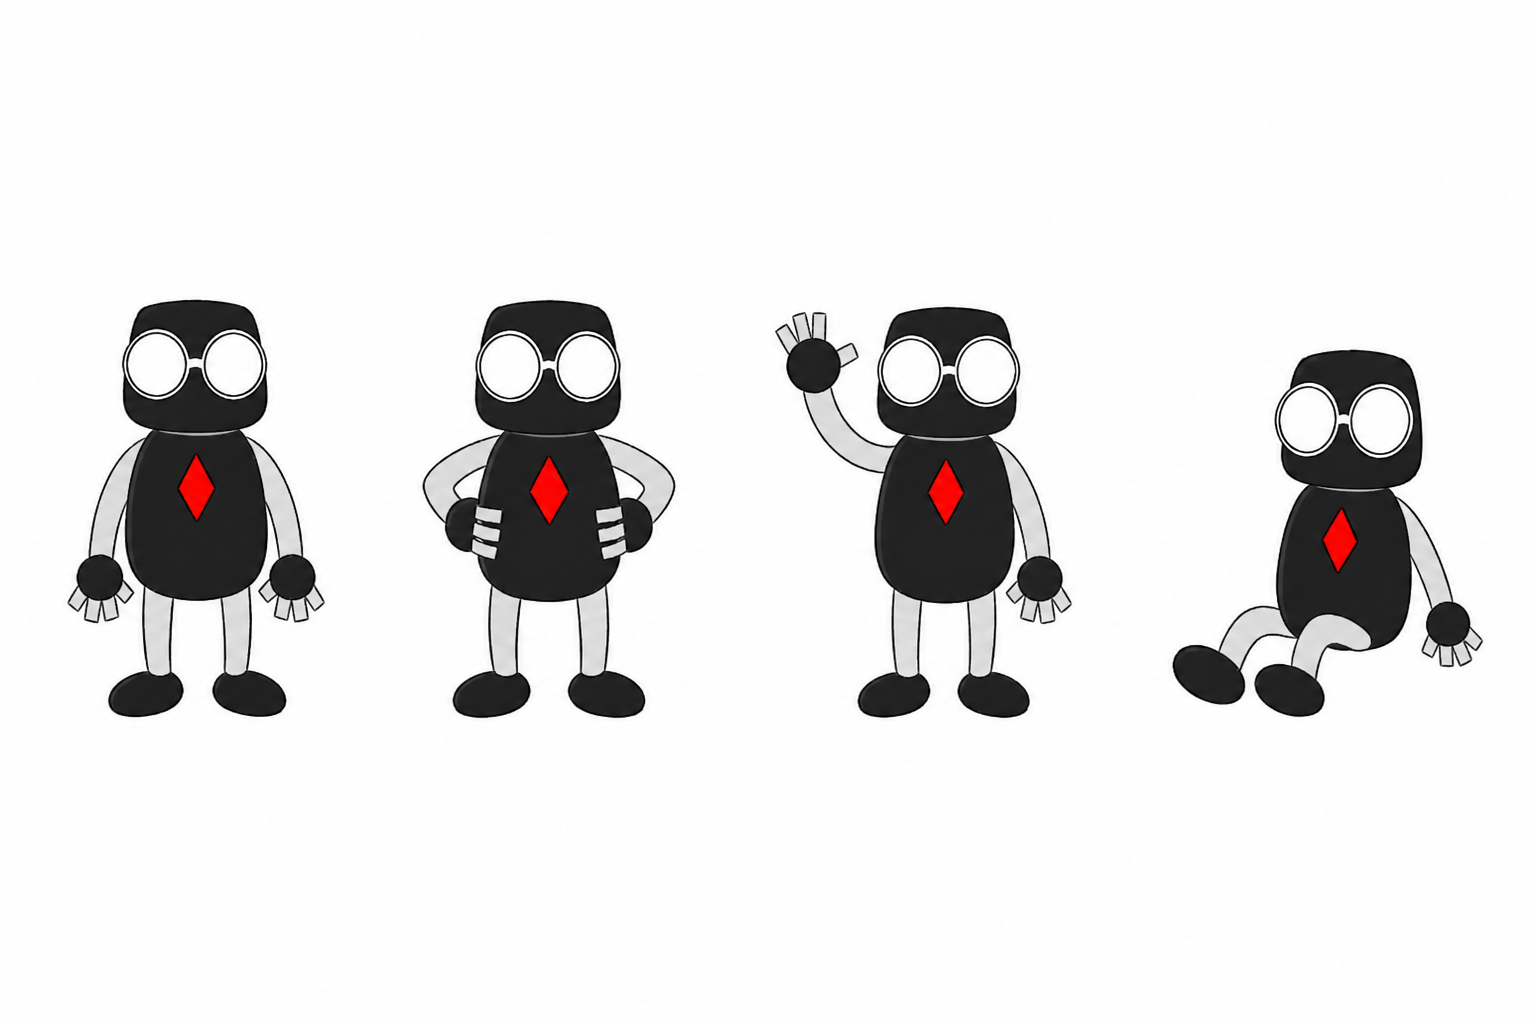
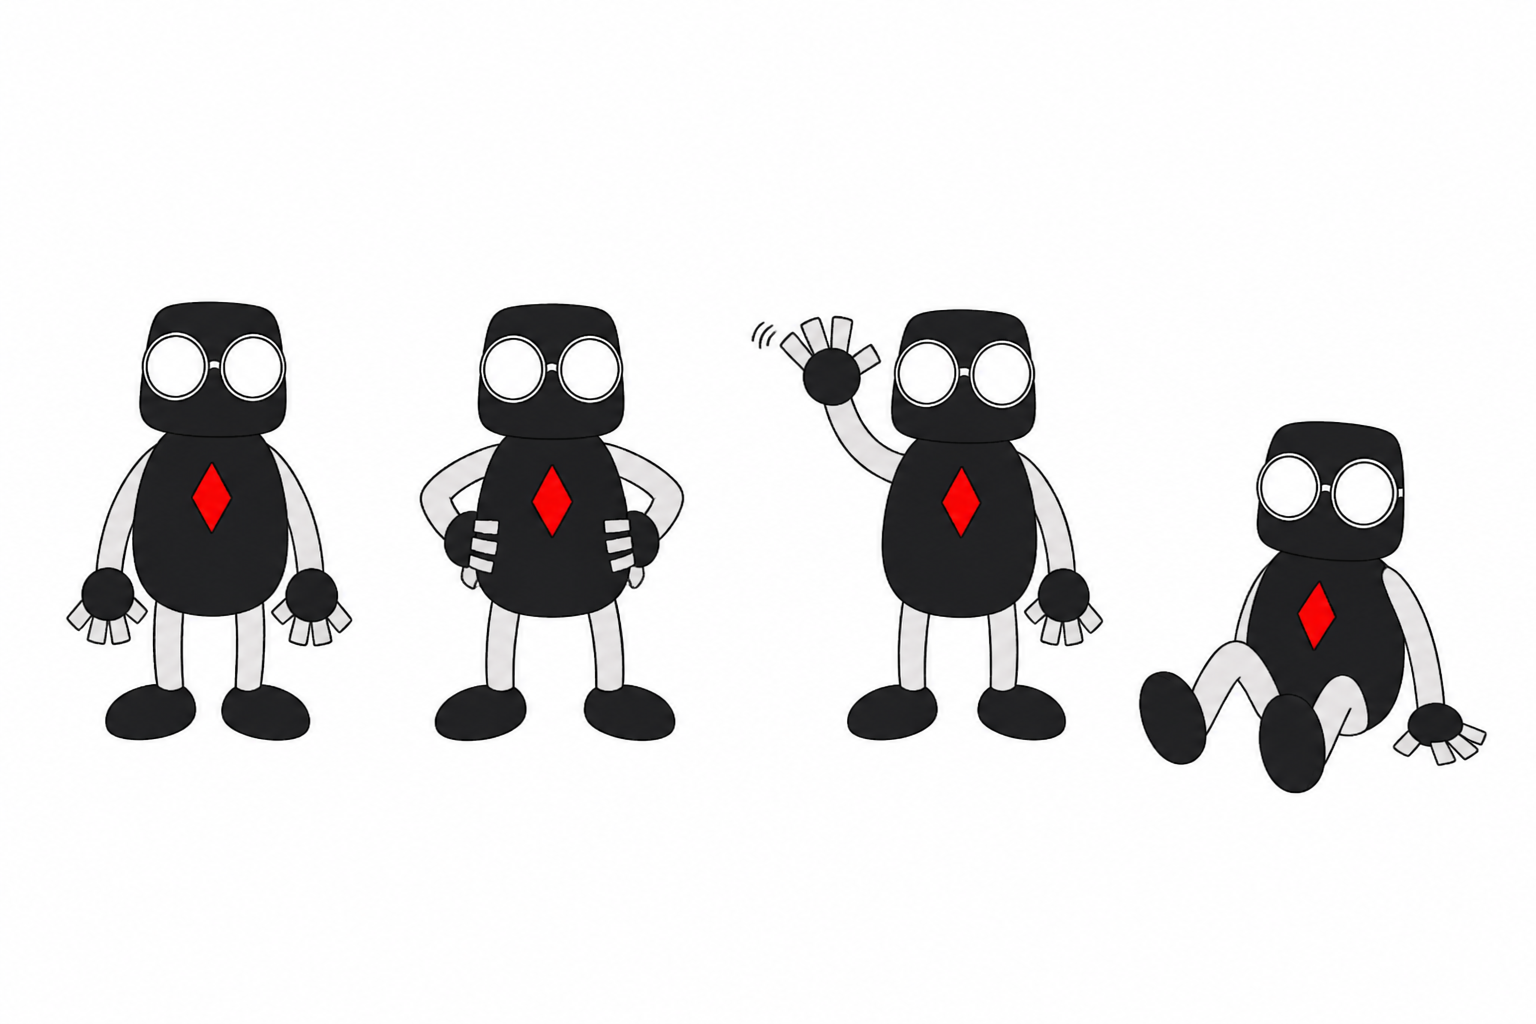
fix: lock T Krobot hand construction in illustrations
Hands were the remaining miss — gloves, five digits, sausages, black
fists. Stop relaxing finger count, attach dedicated hand lock sheets
on every generation, and reject anything that is not a black palm blob
with three grey rectangular tabs plus a thumb.

Changed region(s): [[0.4688, 0.2812, 0.9688, 0.7812], [0.0312, 0.2812, 0.25, 0.75], [0.25, 0.2812, 0.4688, 0.75]]

diff --git a/docs/skills/tkrobot-illustrations/references/tkrobot-sketch-mode.md b/docs/skills/tkrobot-illustrations/references/tkrobot-sketch-mode.md
@@ -11,16 +11,19 @@ with round white eyes — reject that on sight.
 
 ## Always attach these
 
-On every `image_gen` call, pass both lock sheets as reference images, in this
+On every `image_gen` call, pass these lock sheets as reference images, in this
 order:
 
 1. `assets/character-lock-canonical.png` — anatomy and colours from the sticker
    masters (wave, hands-on-hips, OK, face).
-2. `assets/character-lock-sketch.png` — the same character in thin-line sketch
-   form.
+2. `assets/character-lock-sketch.png` — the same character in thin-line form.
+3. `assets/hand-lock-canonical.png` — locked v1 hands: black palm blob, grey
+   rectangular tabs. Also `docs/references/hand-size-anchor.png`.
+4. `assets/hand-lock-sketch.png` — the same hands in thin-line form.
 
-Do **not** pass `assets/examples/*.png` as character references. Those files
-calibrate page density only; older ones may still look like Xiaohei.
+Hands are the most common miss. If a call can only take a few references,
+keep the two **hand** sheets. Do **not** pass `assets/examples/*.png` as
+character references.
 
 ## Invariants that survive sketch mode
 
@@ -37,11 +40,32 @@ These do not relax. If any one is missing, regenerate.
 - **Light grey `#e1e1e1` tube limbs** with a thin black outline. Moderately slim.
   This is the silhouette that separates T Krobot from Xiaohei. Limbs are never
   solid black and never hair-thin stick lines.
-- Hands: round **black palm blobs**; fingers read as short light-grey tabs or a
-  mitten at small sizes. Exact three-fingers-plus-thumb relaxes when the
-  character is tiny.
+- **Hands** — see below. This does not relax when the hand is large enough
+  to count.
 - Oversized **black oval feet**.
 - No mouth, no eyebrows, no blush, no nose. Blank, deadpan.
+
+## Hands (do not improvise)
+
+Locked construction, from `docs/references/hand-size-anchor.png`:
+
+- The palm is a **round solid-black blob**. It *is* the palm — not a glove,
+  not a wrist joint, not stripes painted on a mitten.
+- Fingers and the thumb are **light grey `#e1e1e1` flat rectangular tabs**
+  with hard sides and flat or slightly rounded corners. They grow out of the
+  **edge** of the black blob.
+- Count the grey tabs: **three fingers plus one thumb**. Four tabs total.
+  Never four fingers plus a thumb (five tabs). Never four equal fingers with
+  no thumb. Never five digits.
+- Tabs stay **large** — the locked v1 blocky scale, roughly as long as the
+  palm is wide. Not tiny nubs, not the smaller v2 batch, not sausages.
+- The grey arm tube meets the black palm. No extra ring.
+
+A hand that is fully hidden (in a pocket, behind a crate) may vanish. A hand
+that is visible enough to count must be this construction.
+
+Never: white Mickey gloves, all-black hands, stick-figure hooks, sausage
+fingers, fingernails, knuckle lines, or a mitten with white bars.
 
 ## What relaxes
 
@@ -49,7 +73,7 @@ These do not relax. If any one is missing, regenerate.
 - Head/body fill: flat solid black (skip the sticker gradient and the 1px shine
   if the scale is small).
 - Slight squash/stretch for the action — carrying, cranking, falling — as long
-  as head, glasses, grey limbs, and diamond still read.
+  as head, glasses, grey limbs, diamond, and hands still read.
 
 ## Character in the scene
 

diff --git a/docs/skills/tkrobot-illustrations/references/prompt-template.md b/docs/skills/tkrobot-illustrations/references/prompt-template.md
@@ -2,13 +2,17 @@
 
 One image per generation call. Fill the variables; never collage several ideas.
 
-Attach both character lock sheets as reference images on the same call
+Attach these lock sheets as reference images on the same call
 (`reference_image_paths` or the equivalent), in this order:
 
 1. `docs/skills/tkrobot-illustrations/assets/character-lock-canonical.png`
 2. `docs/skills/tkrobot-illustrations/assets/character-lock-sketch.png`
+3. `docs/skills/tkrobot-illustrations/assets/hand-lock-canonical.png`
+4. `docs/skills/tkrobot-illustrations/assets/hand-lock-sketch.png`
 
-Copy T Krobot from those sheets. Do not invent a black stick-figure stand-in.
+Copy T Krobot — and especially the hands — from those sheets. Do not invent
+a black stick-figure or cartoon gloves. If the tool only accepts a few
+references, keep the two hand sheets.
 
 ```text
 Generate one standalone 16:9 horizontal article body illustration.
@@ -34,7 +38,12 @@ MUST match the lock sheets:
   bars, not on the shoulder.
 - Arms and legs: light grey (#e1e1e1) smooth tubes with a thin black outline.
   Moderately slim. NEVER solid black. NEVER hair-thin stick lines. No joints.
-- Hands: round black palm blobs; short light-grey tab fingers or a mitten.
+- Hands (copy the hand-lock sheets): each visible hand is a ROUND SOLID BLACK
+  PALM BLOB with exactly FOUR light-grey rectangular tabs growing from its
+  edge — three fingers in a row plus one thumb set apart. Tabs are LARGE flat
+  rectangles with hard sides, not sausages, not nubs. The black blob is the
+  palm, not a glove. Never five digits. Never white Mickey gloves. Never
+  all-black hands. Never a mitten with white stripes.
 - Feet: oversized solid black ovals.
 - No mouth, no eyebrows, no blush. Deadpan.
 
@@ -96,7 +105,9 @@ Regenerate with the same core meaning and layout, but make T Krobot central
 to the conceptual action — doing the strange work that explains the idea, not
 standing beside the diagram. Keep it clean, sparse, hand-drawn, not cute.
 Keep T Krobot on-model: grey tube limbs, trapezoid black head and body, empty
-round white glasses, red chest diamond. Not an all-black stick figure.
+round white glasses, red chest diamond, black palm blobs with four large
+grey rectangular tabs (three fingers plus thumb). Not an all-black stick
+figure. Not cartoon gloves.
 ```
 
 Fix an off-model T Krobot (keep the scene):
@@ -108,4 +119,15 @@ round white glasses, flat red diamond centred on the chest, light grey tube
 limbs with thin black outlines, black oval feet, no mouth, no pupils. Do not
 turn the limbs black. Do not turn the head into a pill. Preserve the scene,
 labels, and layout.
+```
+
+Fix the hands only (keep the rest):
+
+```text
+Edit the provided image. Fix only T Krobot's hands to match the attached
+hand-lock sheets. Each visible hand: a round solid-black palm blob, with
+exactly three light-grey rectangular finger tabs plus one grey thumb tab
+growing from the blob's edge. Large flat tabs, hard sides. Not white gloves,
+not five digits, not sausages, not all-black fists, not striped mittens.
+Leave the head, body, scene, and labels untouched.
 ```

diff --git a/docs/skills/tkrobot-illustrations/SKILL.md b/docs/skills/tkrobot-illustrations/SKILL.md
@@ -23,12 +23,15 @@ body images for articles, tutorials, proposals, and course-page prose.
 
 ## Read before generating
 
-Always read `references/tkrobot-sketch-mode.md` and look at both lock sheets
+Always read `references/tkrobot-sketch-mode.md` and look at the lock sheets
 before the first `image_gen` call. T Krobot is the sticker mascot with **light
-grey tube limbs**, not an all-black Xiaohei stick figure.
+grey tube limbs** and **black palm + grey tab hands**, not an all-black
+Xiaohei stick figure and not cartoon gloves.
 
 - `assets/character-lock-canonical.png` — anatomy and colours.
 - `assets/character-lock-sketch.png` — the same character in thin-line form.
+- `assets/hand-lock-canonical.png` and `assets/hand-lock-sketch.png` — hands.
+  Also `docs/references/hand-size-anchor.png`.
 - `references/style-dna.md` — page DNA, colours, lettering, hard bans.
 - `references/composition-patterns.md` — structure types, metaphor invention,
   no-recycling rule.
@@ -55,19 +58,20 @@ Default 3–6 images; short pieces 1–2. Enough is enough.
 ### 3. Generate one image at a time
 
 If the user asks to generate, generate — one `image_gen` call per image, using
-`references/prompt-template.md`. Attach both lock sheets as
-`reference_image_paths` on that call. Never collage multiple ideas into one
-image. Invent a fresh metaphor from *this* text each time; never reuse a
-previous composition (see the no-recycling rule).
+`references/prompt-template.md`. Attach the character lock sheets **and** the
+hand lock sheets as `reference_image_paths` on that call. Never collage
+multiple ideas into one image. Invent a fresh metaphor from *this* text each
+time; never reuse a previous composition (see the no-recycling rule).
 
 ### 4. Check and iterate
 
-Run `references/qa-checklist.md`. Check the character against the lock sheets
-before anything else. Regenerate or edit if: the robot drifted into Xiaohei
-(black stick limbs, pill head, dotted eyes); T Krobot is mere decoration; the
-canvas is crowded; it reads as a flowchart or slide; the annotations are long
-or numerous; a type-title appears in a corner; the style went cute or went
-vector; the background isn't clean white.
+Run `references/qa-checklist.md`. Check the character — then every visible
+hand — against the lock sheets before anything else. Regenerate or edit if:
+the robot drifted into Xiaohei (black stick limbs, pill head, dotted eyes);
+hands drifted into gloves, five digits, sausages, or black fists; T Krobot is
+mere decoration; the canvas is crowded; it reads as a flowchart or slide; the
+annotations are long or numerous; a type-title appears in a corner; the style
+went cute or went vector; the background isn't clean white.
 
 ### 5. Deliver
 

diff --git a/docs/skills/tkrobot-illustrations/assets/README.md b/docs/skills/tkrobot-illustrations/assets/README.md
@@ -6,14 +6,25 @@
   hands-on-hips, OK, face). Anatomy and colours.
 - `character-lock-sketch.png` — the same mascot in thin-line sketch form.
 
-Pass both as `reference_image_paths` on every generation call, canonical first.
+## Hand lock (attach every time)
+
+Hands are the most common miss. Attach these as well, and prefer them if the
+image tool only accepts a few references.
+
+- `hand-lock-canonical.png` — locked v1 palm/tabs from
+  `docs/references/hand-size-anchor.png` plus palm-open, thumbs-up, point, OK.
+- `hand-lock-sketch.png` — the same construction in thin-line form.
+
+Round black palm blob. Exactly three light-grey rectangular finger tabs plus
+one grey thumb tab, growing from the blob's edge. Large flat tabs, not
+gloves, not five digits, not sausages.
 
 ## Examples (page density only)
 
 Low-frequency visual calibration — line density, whitespace, colour restraint,
 deadpan-worker energy. Do not copy these compositions (see the no-recycling
-rule). Do not use them as the character reference; older files may still look
-like Xiaohei.
+rule). Do not use them as the character or hand reference; older files may
+still look like Xiaohei.
 
 - `examples/01-vibe-coding.png` — workflow: slips in, crank machine, app on easel, inspector.
 - `examples/02-blocks-to-hardware.png` — concept metaphor: block hopper, screw press, walking board.

diff --git a/AGENTS.md b/AGENTS.md
@@ -34,7 +34,7 @@ Do **not** add unrelated brand assets, slide decks, checkerboard previews, or lo
 1. **Find existing stickers** → `stickers/` and `stickers/manifest.json` (filter by `tags` / `description`).
 2. **See the whole pack** → `stickers/contact-sheet.png`.
 3. **Match style before generating** → `docs/skills/tkrobot-sticker-generation/references/style-guide.md` and `docs/prompts/tkrobot-sticker-guidelines.md`.
-3b. **Article/tutorial body illustrations** (not stickers) → `docs/skills/tkrobot-illustrations/SKILL.md`. Attach both lock sheets on every generation call (`assets/character-lock-canonical.png`, `assets/character-lock-sketch.png`). T Krobot keeps light grey tube limbs; reject all-black Xiaohei stick figures.
+3b. **Article/tutorial body illustrations** (not stickers) → `docs/skills/tkrobot-illustrations/SKILL.md`. Attach the character lock sheets and the hand lock sheets on every generation call. Hands are a round black palm blob with three grey rectangular finger tabs plus one thumb; reject gloves, five digits, and all-black Xiaohei stick figures.
 4. **Match hand size** → `docs/references/hand-size-anchor.png`.
 5. **Ignore by default** → almost everything under `archive/generated-iterations/` except when a manifest `source_path` or note points there.
 

diff --git a/docs/skills/tkrobot-illustrations/references/style-dna.md b/docs/skills/tkrobot-illustrations/references/style-dna.md
@@ -12,9 +12,11 @@ a blank sheet — quickly, precisely, and slightly absurdly.
 ## Character
 
 T Krobot is the sticker mascot in thin-line form. Light grey tube limbs, black
-trapezoid head and body, empty round white glasses, red chest diamond. See
-`tkrobot-sketch-mode.md` and the two lock sheets. If the robot is an all-black
-stick figure, the page is wrong even when the layout is right.
+trapezoid head and body, empty round white glasses, red chest diamond, hands
+that are a black palm blob with three grey rectangular finger tabs plus a
+thumb. See `tkrobot-sketch-mode.md` and the lock sheets. If the robot is an
+all-black stick figure, or the hands are gloves, the page is wrong even when
+the layout is right.
 
 ## Must
 

diff --git a/docs/skills/tkrobot-illustrations/assets/examples/README.md b/docs/skills/tkrobot-illustrations/assets/examples/README.md
@@ -4,8 +4,8 @@ Low-frequency visual calibration only — line density, whitespace, colour
 restraint, deadpan-worker energy. Do not copy these compositions
 (see the no-recycling rule in `../../references/composition-patterns.md`).
 
-Do not attach these as character references. Use
-`../character-lock-canonical.png` and `../character-lock-sketch.png`.
+Do not attach these as character or hand references. Use the lock sheets in
+`../` (character + hand).
 
 - `01-vibe-coding.png` — workflow: slips in, crank machine, app on easel, inspector.
 - `02-blocks-to-hardware.png` — concept metaphor: block hopper, screw press, walking board.

diff --git a/docs/skills/tkrobot-illustrations/references/qa-checklist.md b/docs/skills/tkrobot-illustrations/references/qa-checklist.md
@@ -13,6 +13,10 @@ Reject or edit when any of these appear.
 - Chest diamond missing, turned into bars, or moved to the shoulder.
 - Mouth, eyebrows, blush, or a cute face.
 - Thick sticker outlines or flat sticker shading on a sketch page.
+- Hands off-model (check every visible hand against the hand-lock sheets):
+  white gloves; five digits; four fingers plus a thumb; four equal fingers
+  with no thumb; sausage or tube fingers; all-black hands; missing palm
+  blob; tiny nubs; a mitten with white/grey stripes; stick-figure hooks.
 
 ## Page
 
